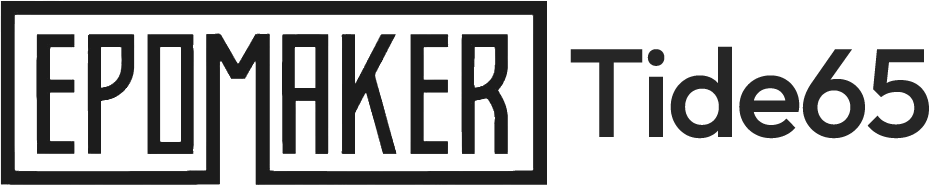
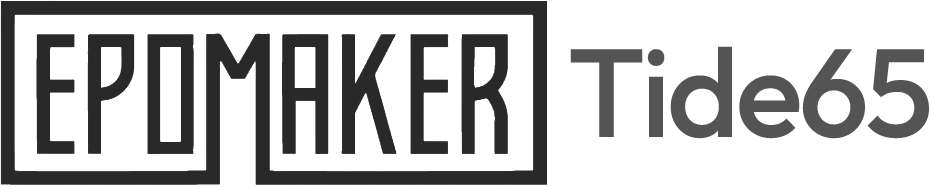
Readme polish

Changed region(s): [[0.5918, 0.2406, 1.0, 0.7487]]

diff --git a/readme.md b/readme.md
@@ -1,18 +1,24 @@
-# Custom QMK Keymap for Epomaker Tide65
+<div align="center">
+    <picture>
+        <source media="(prefers-color-scheme: light)" srcset="docs/readme/Tide65-Title.png">
+        <img class="image" src="docs/readme/Tide65-Title-Dark.png" height="70px">
+    </picture>
+    <h1>Custom QMK Keymap - Wireless</h1>
+</div>
 
 Current support for QMK customisation on the Tide65 is non-functioning, as wireless code is not included in the official [qmk-firmware](https://github.com/qmk/qmk_firmware/tree/master/keyboards/epomaker/tide65) or [Epomaker](https://github.com/Epomaker/tide65) repositories.<br>
-This means wireless functionality works when using the factory firmware, but compiling your own QMK firmware and flashing this to the board will result in a wired-only with no Bluetooth or 2.4GHz connectivity.
+This means compiling your own QMK firmware and flashing this to the board will result in a wired-only board with no Bluetooth or 2.4GHz connectivity. (See [this issue](https://github.com/qmk/qmk_firmware/issues/24085))
 
 This repo is forked from a [pull request](https://github.com/qmk/qmk_firmware/pull/24209) focused on adding back the wireless functionality features. Here I have my own keymap configured, which you can compile using the following QMK MSYS command:<br>
 <p align="center">
   <code>qmk compile -kb epomaker/tide65 -km mine</code>
 </p>
 
-I will include a description of my own keymap, and some tips on how you can make your own keymap using this repo.
+I will include a description of my own keymap, and some tips on how you can make your own.
 
-> This repo also contains the <B>default keymap</B> for this keyboard, however this will <B>fail to compile</B> as, in the code's current state, the keyboard's general code is not separate from the keymap-specific code, and <B>I have modified this code</B> to work for my keymap.
+> This repo also contains the <B>default keymap</B> for this keyboard. This will <B>fail to compile</B> as the keyboard's general code is not separate from the keymap-specific code. <B>I have modified this code</B> for my keymap.
 
-> This code will <B>not</B> work for the <B>Tide75</B>. For this, you would need to correct all pins and layouts.
+> This code will <B>not</B> work for the <B>Tide75</B>. For this, you would need to configure all pins and layouts.
 
 ## Keyboard Layout
 
@@ -27,7 +33,7 @@ The keyboard has <B>66 keys</B> and <B>1 encoder</B>. These, along with their fu
 
 > These LED indexes took me too long to figure out and I have lost touch with reality.
 
-When changing the keymap, such as changing the key for <B>BT1</B>, the indicator LED to light up also needs to be updated. This can be referenced form the diagram.
+When changing the keymap, such as changing the key for <B>BT1</B>, the indicator LED to light up also needs to be updated. This can be referenced from the diagram.
 
 ## My Keymap
 
@@ -46,10 +52,10 @@ For a full list of shortcuts on the keyboard, refer to the keymap file here, or 
 * <B>Encoder</B> - The encoder controls different things depending on the lactive layer.
 * <B>RGB Lighting</B> - Space bar shines <B>red</B> when caps lock is on. Each layer lights up special keys.
 
-<details>
+<details open>
 <summary><h3>Shortcuts</h3></summary>
 
-* `Caps Lock` +
+* `Caps Lock` + <I>(used for keyboard-related stuff)</I>
     * `1-3` - Connect to <I>Bluetooth 1-3</I>
     * `4` - Connect to <I>2.4GHz dongle</I>
     * `5` - Connect to <I>wired mode</I>
@@ -61,12 +67,13 @@ For a full list of shortcuts on the keyboard, refer to the keymap file here, or 
     * `Encoder press` - Keyboard RGB on/off
     * `Encoder ↺` - Keyboard RGB brightness -
     * `Encoder ↻` - Keyboard RGB brightness +
+    * `Esc` - Enter <B>DFU mode</B> <I>(For flashing keyboard)</I>
 #### Windows
-* `Fn` +
+* `Fn` + <I>(used for function keys)</I>
     * `1-+` - <B>F1-F12</B>
     * `Encoder ↺` - Keyboard RGB hue -
     * `Encoder ↻` - Keyboard RGB hue +
-* `Esc` +
+* `Esc` + <I>(used for system-related stuff)</I>
     * `E` - Open File Explorer
     * `T` - Open Task Manager
     * `S` - Take Screenshot
@@ -77,11 +84,11 @@ For a full list of shortcuts on the keyboard, refer to the keymap file here, or 
     * `Encoder ↺` - System brightness -
     * `Encoder ↻` - System brightness +
 #### MacOS
-* `Fn` +
+* `Fn` + <I>(used for function keys)</I>
     * `1-+` - <B>F1-F12</B>
     * `Encoder ↺` - Keyboard RGB hue -
     * `Encoder ↻` - Keyboard RGB hue +
-* `Esc` +
+* `Esc` + <I>(used for system-related stuff)</I>
     * `S` - Take Screenshot
     * `Del` - Media previous
     * `PgUp` - Media play/pause
